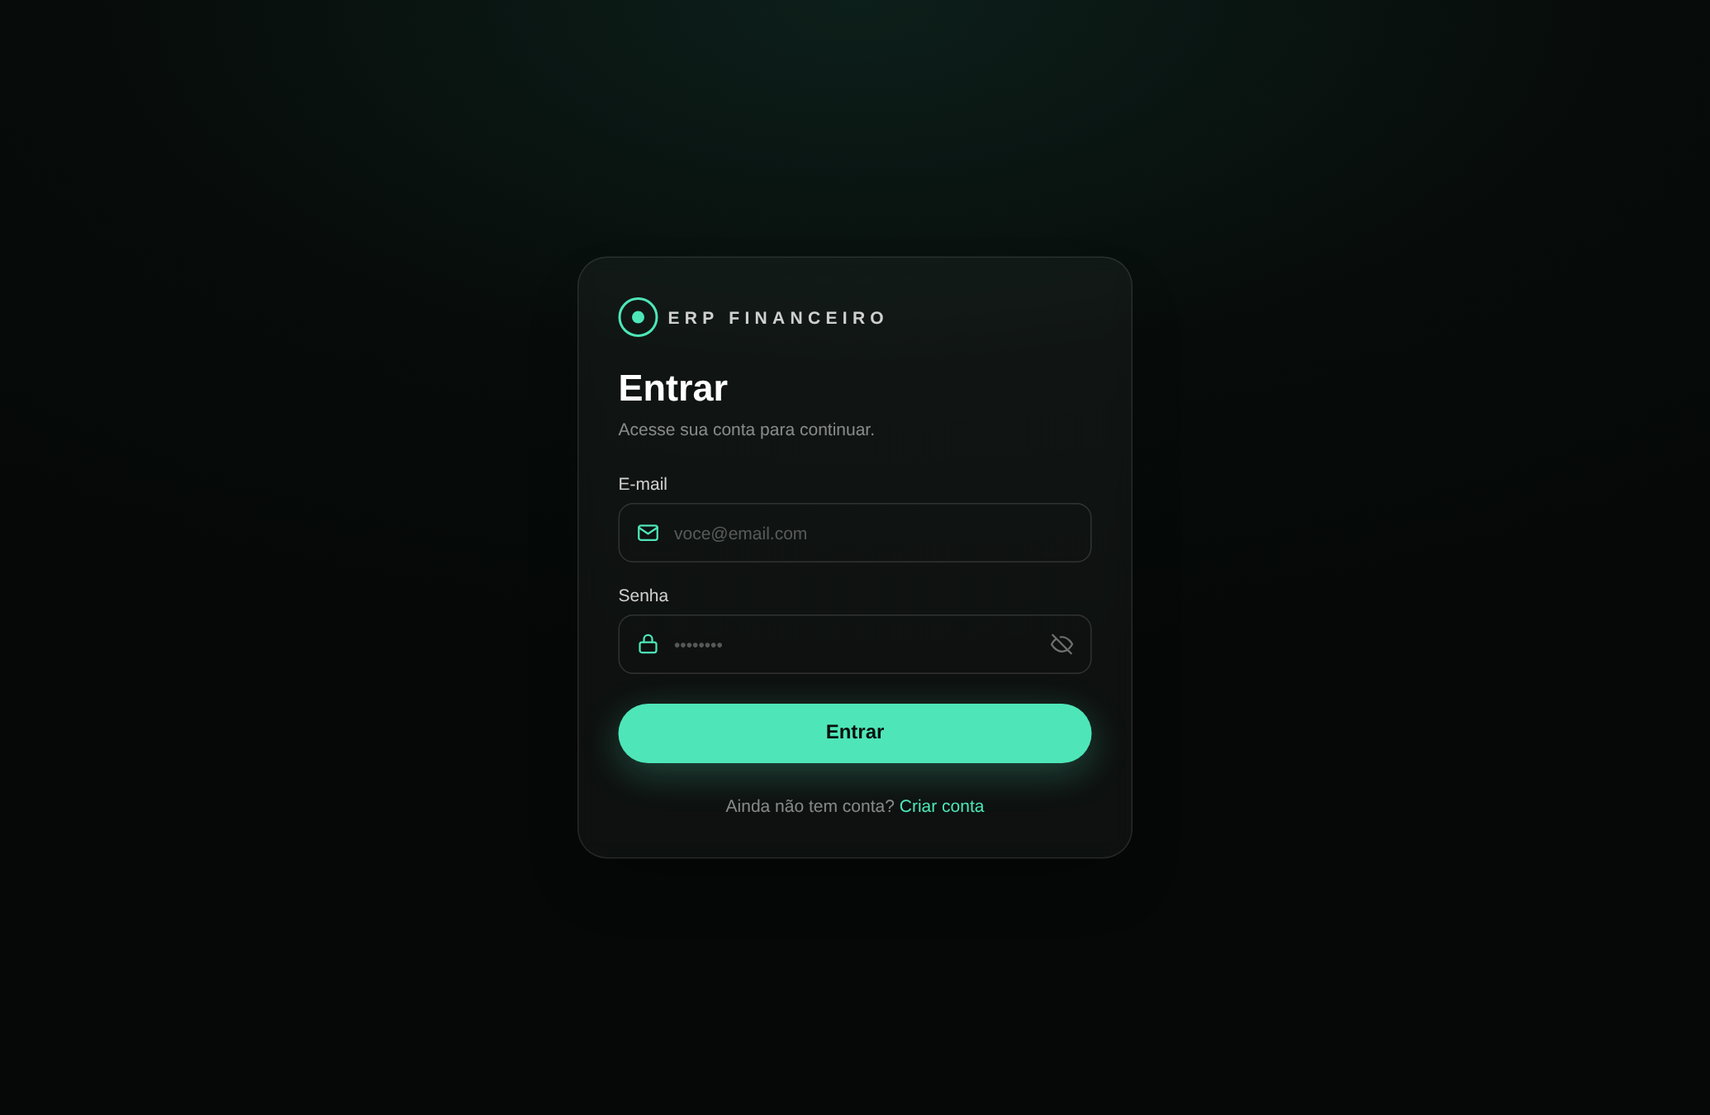
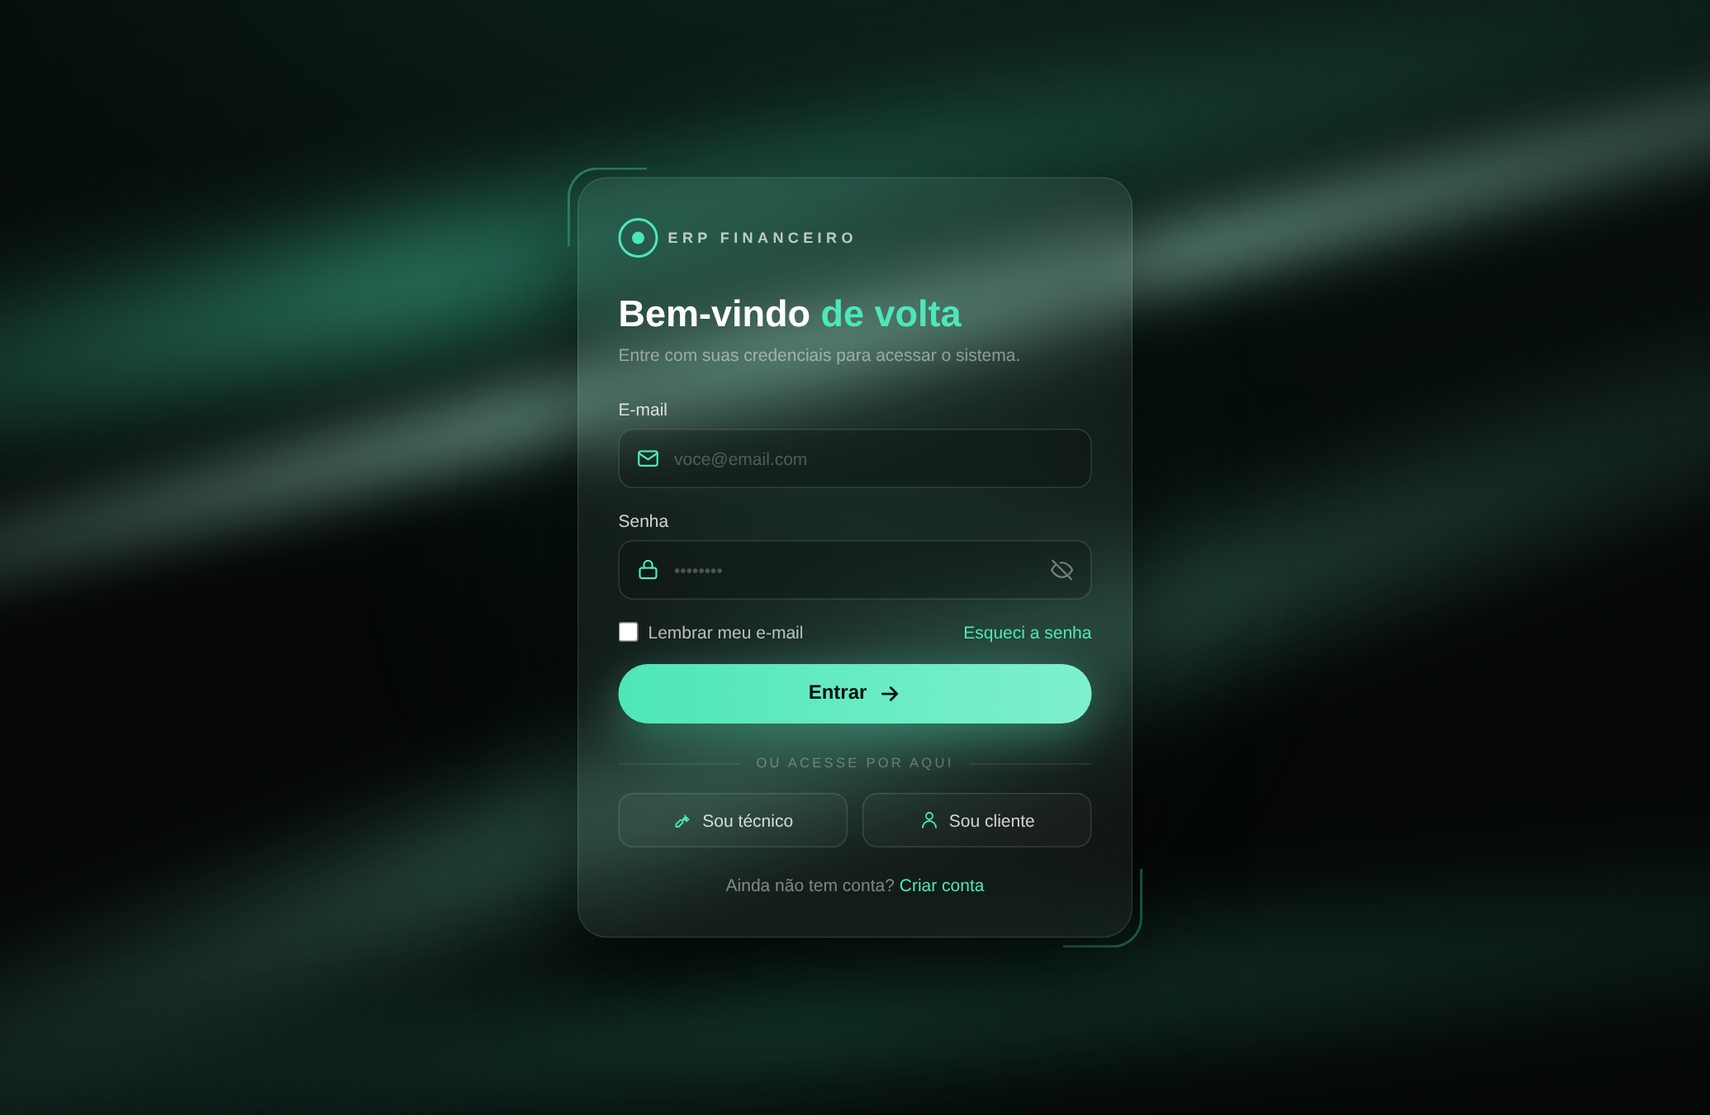
login: visual novo (vidro escuro com faixas de luz) + lembrar e-mail e recuperar senha
Fundo em CSS puro (FundoAuth), sem imagem para baixar: faixas de luz em
diagonal no verde da marca, cartão de vidro com cantos em L, título com
palavra destacada e botão com brilho e seta.

Junto vieram duas coisas que faltavam de verdade no login do administrador:

- "Lembrar meu e-mail": guarda só o e-mail no aparelho, nunca a senha.
- "Esqueci a senha": manda o link de nova senha (o manual já prometia isso,
  mas só o portal tinha). Destino novo /nova-senha, fora do SomenteAnonimo
  porque o link do e-mail chega já com sessão.
- Atalhos "Sou técnico" e "Sou cliente" para as outras duas portas de entrada.

Manual (seção 1) e print regerados.

Claude-Session: https://claude.ai/code/session_01LvKVVJXHUTGGnyzXpwt5fU

diff --git a/app/src/pages/auth/LoginPage.tsx b/app/src/pages/auth/LoginPage.tsx
@@ -4,9 +4,10 @@ import { useAuth } from '../../core/auth/useAuth'
 import { useLimiteTentativas } from '../../core/auth/useLimiteTentativas'
 import { mensagemDeErro } from '../../core/erros/mensagemDeErro'
 import { CHAVE_SESSAO_EXPIRADA } from '../../core/auth/useInatividade'
+import { FundoAuth, MENTA } from './FundoAuth'
 
-const MENTA = '#4ee6b8'
 const emailValido = (v: string) => /^[^@\s]+@[^@\s]+\.[^@\s]+$/.test(v.trim())
+const CHAVE_EMAIL_LEMBRADO = 'erp.login.email'
 
 function Check() {
   return (
@@ -17,16 +18,20 @@ function Check() {
 }
 
 export function LoginPage() {
-  const { entrar } = useAuth()
+  const { entrar, recuperarSenha } = useAuth()
   const navigate = useNavigate()
   const location = useLocation()
   const destino = (location.state as { de?: string } | null)?.de ?? '/'
 
-  const [email, setEmail] = useState('')
+  const lembradoInicial = (() => { try { return localStorage.getItem(CHAVE_EMAIL_LEMBRADO) ?? '' } catch { return '' } })()
+  const [email, setEmail] = useState(lembradoInicial)
+  const [lembrar, setLembrar] = useState(lembradoInicial !== '')
   const [senha, setSenha] = useState('')
   const [verSenha, setVerSenha] = useState(false)
   const [erro, setErro] = useState<string | null>(null)
   const [enviando, setEnviando] = useState(false)
+  const [recuperando, setRecuperando] = useState(false)
+  const [avisoRecuperacao, setAvisoRecuperacao] = useState<string | null>(null)
   const limite = useLimiteTentativas()
   const [sessaoExpirada, setSessaoExpirada] = useState(() => {
     try { return sessionStorage.getItem(CHAVE_SESSAO_EXPIRADA) === '1' } catch { return false }
@@ -43,6 +48,11 @@ export function LoginPage() {
     setEnviando(true)
     try {
       await entrar(email.trim(), senha)
+      // "lembrar" guarda só o e-mail (nunca a senha): tira o trabalho de digitar sem afrouxar a segurança
+      try {
+        if (lembrar) localStorage.setItem(CHAVE_EMAIL_LEMBRADO, email.trim())
+        else localStorage.removeItem(CHAVE_EMAIL_LEMBRADO)
+      } catch { /* ignora */ }
       limite.registrarSucesso()
       navigate(destino, { replace: true })
     } catch (err) {
@@ -53,59 +63,109 @@ export function LoginPage() {
     }
   }
 
-  const campo = 'h-12 w-full rounded-xl border bg-transparent pl-11 pr-11 text-sm text-white outline-none transition placeholder:text-white/30'
+  async function aoRecuperar() {
+    setErro(null)
+    setAvisoRecuperacao(null)
+    if (!emailValido(email)) { setErro('Informe o e-mail da conta para receber o link de nova senha.'); return }
+    setRecuperando(true)
+    try {
+      await recuperarSenha(email.trim(), `${window.location.origin}/nova-senha`)
+      setAvisoRecuperacao('Se o e-mail existir, o link para definir uma nova senha chega em instantes.')
+    } catch (err) {
+      setErro(mensagemDeErro(err))
+    } finally {
+      setRecuperando(false)
+    }
+  }
+
+  const campo = 'h-12 w-full rounded-xl border bg-black/20 pl-11 pr-11 text-sm text-white outline-none transition placeholder:text-white/25'
   const borda = (ok: boolean) => (ok ? { borderColor: MENTA, boxShadow: `0 0 0 1px ${MENTA}33` } : { borderColor: 'rgba(255,255,255,0.14)' })
 
   return (
-    <div className="flex min-h-screen items-center justify-center px-4 py-10" style={{ background: 'radial-gradient(80% 60% at 50% 0%, #0d1f1a 0%, #070c0a 55%, #050807 100%)' }}>
-      <div className="w-full max-w-md rounded-3xl border border-white/10 bg-white/[0.04] p-8 shadow-2xl backdrop-blur">
-        <div className="mb-6 flex items-center gap-2">
-          <span className="flex size-8 items-center justify-center rounded-full border-2" style={{ borderColor: MENTA }}>
-            <span className="size-2.5 rounded-full" style={{ backgroundColor: MENTA }} />
-          </span>
-          <span className="text-sm font-semibold tracking-[0.3em] text-white/80">ERP FINANCEIRO</span>
-        </div>
+    <FundoAuth>
+      <div className="relative w-full max-w-md">
+        {/* cantos em L: o "recorte" do cartão, que dá a moldura sem pesar o fundo */}
+        <span className="pointer-events-none absolute -left-2 -top-2 size-16 rounded-tl-3xl border-l-2 border-t-2" style={{ borderColor: `${MENTA}66` }} />
+        <span className="pointer-events-none absolute -bottom-2 -right-2 size-16 rounded-br-3xl border-b-2 border-r-2" style={{ borderColor: `${MENTA}66` }} />
 
-        <h1 className="text-3xl font-bold text-white">Entrar</h1>
-        <p className="mt-1 text-sm text-white/50">Acesse sua conta para continuar.</p>
-
-        <form onSubmit={aoEnviar} className="mt-6 space-y-4" noValidate>
-          {erro && <p className="rounded-xl border border-red-400/30 bg-red-400/10 px-4 py-3 text-sm text-red-300">{erro}</p>}
-          {limite.mensagem && <p className="rounded-xl border border-white/10 bg-white/5 px-4 py-3 text-sm text-white/70">{limite.mensagem}</p>}
-
-          <div>
-            <label htmlFor="login-email" className="mb-1.5 block text-sm font-medium text-white/80">E-mail</label>
-            <div className="relative">
-              <svg viewBox="0 0 24 24" className="absolute left-3.5 top-1/2 size-5 -translate-y-1/2" fill="none" stroke={MENTA} strokeWidth="1.8" strokeLinecap="round" strokeLinejoin="round"><rect x="3" y="5" width="18" height="14" rx="2" /><path d="m3 7 9 6 9-6" /></svg>
-              <input id="login-email" type="email" autoComplete="email" required value={email} onChange={(e) => setEmail(e.target.value)} className={campo} style={borda(emailValido(email))} placeholder="voce@email.com" />
-              {emailValido(email) && <span className="absolute right-3.5 top-1/2 -translate-y-1/2"><Check /></span>}
-            </div>
+        <div className="rounded-3xl border border-white/10 bg-white/[0.05] p-8 shadow-[0_30px_80px_rgba(0,0,0,0.55)] backdrop-blur-xl">
+          <div className="mb-7 flex items-center gap-2">
+            <span className="flex size-8 items-center justify-center rounded-full border-2" style={{ borderColor: MENTA }}>
+              <span className="size-2.5 rounded-full" style={{ backgroundColor: MENTA }} />
+            </span>
+            <span className="text-xs font-semibold tracking-[0.3em] text-white/70">ERP FINANCEIRO</span>
           </div>
 
-          <div>
-            <label htmlFor="login-senha" className="mb-1.5 block text-sm font-medium text-white/80">Senha</label>
-            <div className="relative">
-              <svg viewBox="0 0 24 24" className="absolute left-3.5 top-1/2 size-5 -translate-y-1/2" fill="none" stroke={MENTA} strokeWidth="1.8" strokeLinecap="round" strokeLinejoin="round"><rect x="4" y="10" width="16" height="10" rx="2" /><path d="M8 10V7a4 4 0 0 1 8 0v3" /></svg>
-              <input id="login-senha" type={verSenha ? 'text' : 'password'} autoComplete="current-password" required value={senha} onChange={(e) => setSenha(e.target.value)} className={campo} style={borda(senha.length >= 6)} placeholder="••••••••" />
-              <button type="button" aria-label={verSenha ? 'Ocultar senha' : 'Mostrar senha'} onClick={() => setVerSenha((v) => !v)} className="absolute right-3.5 top-1/2 -translate-y-1/2 text-white/40 hover:text-white/80">
-                <svg viewBox="0 0 24 24" className="size-5" fill="none" stroke="currentColor" strokeWidth="1.8" strokeLinecap="round" strokeLinejoin="round">{verSenha ? <path d="M2 12s3.5-7 10-7 10 7 10 7-3.5 7-10 7-10-7-10-7Zm10 3a3 3 0 1 0 0-6 3 3 0 0 0 0 6Z" /> : <path d="m3 3 18 18M10.6 5.1A10.9 10.9 0 0 1 12 5c6.5 0 10 7 10 7a17.6 17.6 0 0 1-3.2 4.2M6.6 6.6C3.9 8.5 2 12 2 12s3.5 7 10 7c1.6 0 3-.4 4.3-1"/>}</svg>
+          <h1 className="text-3xl font-bold text-white">Bem-vindo <span style={{ color: MENTA }}>de volta</span></h1>
+          <p className="mt-1 text-sm text-white/45">Entre com suas credenciais para acessar o sistema.</p>
+
+          <form onSubmit={aoEnviar} className="mt-6 space-y-4" noValidate>
+            {erro && <p className="rounded-xl border border-red-400/30 bg-red-400/10 px-4 py-3 text-sm text-red-300">{erro}</p>}
+            {avisoRecuperacao && <p className="rounded-xl border border-white/10 bg-white/5 px-4 py-3 text-sm text-white/70">{avisoRecuperacao}</p>}
+            {limite.mensagem && <p className="rounded-xl border border-white/10 bg-white/5 px-4 py-3 text-sm text-white/70">{limite.mensagem}</p>}
+
+            <div>
+              <label htmlFor="login-email" className="mb-1.5 block text-sm font-medium text-white/80">E-mail</label>
+              <div className="relative">
+                <svg viewBox="0 0 24 24" className="absolute left-3.5 top-1/2 size-5 -translate-y-1/2" fill="none" stroke={MENTA} strokeWidth="1.8" strokeLinecap="round" strokeLinejoin="round"><rect x="3" y="5" width="18" height="14" rx="2" /><path d="m3 7 9 6 9-6" /></svg>
+                <input id="login-email" type="email" autoComplete="email" required value={email} onChange={(e) => setEmail(e.target.value)} className={campo} style={borda(emailValido(email))} placeholder="voce@email.com" />
+                {emailValido(email) && <span className="absolute right-3.5 top-1/2 -translate-y-1/2"><Check /></span>}
+              </div>
+            </div>
+
+            <div>
+              <label htmlFor="login-senha" className="mb-1.5 block text-sm font-medium text-white/80">Senha</label>
+              <div className="relative">
+                <svg viewBox="0 0 24 24" className="absolute left-3.5 top-1/2 size-5 -translate-y-1/2" fill="none" stroke={MENTA} strokeWidth="1.8" strokeLinecap="round" strokeLinejoin="round"><rect x="4" y="10" width="16" height="10" rx="2" /><path d="M8 10V7a4 4 0 0 1 8 0v3" /></svg>
+                <input id="login-senha" type={verSenha ? 'text' : 'password'} autoComplete="current-password" required value={senha} onChange={(e) => setSenha(e.target.value)} className={campo} style={borda(senha.length >= 6)} placeholder="••••••••" />
+                <button type="button" aria-label={verSenha ? 'Ocultar senha' : 'Mostrar senha'} onClick={() => setVerSenha((v) => !v)} className="absolute right-3.5 top-1/2 -translate-y-1/2 text-white/40 hover:text-white/80">
+                  <svg viewBox="0 0 24 24" className="size-5" fill="none" stroke="currentColor" strokeWidth="1.8" strokeLinecap="round" strokeLinejoin="round">{verSenha ? <path d="M2 12s3.5-7 10-7 10 7 10 7-3.5 7-10 7-10-7-10-7Zm10 3a3 3 0 1 0 0-6 3 3 0 0 0 0 6Z" /> : <path d="m3 3 18 18M10.6 5.1A10.9 10.9 0 0 1 12 5c6.5 0 10 7 10 7a17.6 17.6 0 0 1-3.2 4.2M6.6 6.6C3.9 8.5 2 12 2 12s3.5 7 10 7c1.6 0 3-.4 4.3-1"/>}</svg>
+                </button>
+              </div>
+            </div>
+
+            <div className="flex flex-wrap items-center justify-between gap-2 text-sm">
+              <label className="flex cursor-pointer items-center gap-2 text-white/70">
+                <input type="checkbox" checked={lembrar} onChange={(e) => setLembrar(e.target.checked)} className="size-4 rounded" style={{ accentColor: MENTA }} />
+                Lembrar meu e-mail
+              </label>
+              <button type="button" onClick={() => void aoRecuperar()} disabled={recuperando} className="font-medium hover:underline disabled:opacity-50" style={{ color: MENTA }}>
+                {recuperando ? 'Enviando…' : 'Esqueci a senha'}
               </button>
             </div>
-          </div>
 
-          <button
-            type="submit"
-            disabled={enviando || limite.bloqueado}
-            className="mt-2 h-12 w-full rounded-full text-base font-semibold transition hover:brightness-110 disabled:opacity-50"
-            style={{ backgroundColor: MENTA, color: '#08110d', boxShadow: `0 8px 30px ${MENTA}44` }}
-          >
-            {enviando ? 'Entrando…' : 'Entrar'}
-          </button>
+            <button
+              type="submit"
+              disabled={enviando || limite.bloqueado}
+              className="group mt-2 flex h-12 w-full items-center justify-center gap-2 rounded-full text-base font-semibold transition hover:brightness-110 disabled:opacity-50"
+              style={{ background: `linear-gradient(90deg, ${MENTA}, #7ef0cd)`, color: '#08110d', boxShadow: `0 10px 34px ${MENTA}55` }}
+            >
+              {enviando ? 'Entrando…' : 'Entrar'}
+              {!enviando && <svg viewBox="0 0 24 24" className="size-5 transition group-hover:translate-x-1" fill="none" stroke="currentColor" strokeWidth="2.2" strokeLinecap="round" strokeLinejoin="round"><path d="M5 12h14m-6-6 6 6-6 6" /></svg>}
+            </button>
 
-          <p className="pt-2 text-center text-sm text-white/50">
-            Ainda não tem conta? <Link to="/cadastro" className="font-medium hover:underline" style={{ color: MENTA }}>Criar conta</Link>
-          </p>
-        </form>
+            <div className="flex items-center gap-3 pt-2">
+              <span className="h-px flex-1 bg-white/10" />
+              <span className="text-[11px] uppercase tracking-[0.2em] text-white/30">ou acesse por aqui</span>
+              <span className="h-px flex-1 bg-white/10" />
+            </div>
+
+            <div className="grid grid-cols-2 gap-3">
+              <Link to="/tecnico/entrar" className="flex h-11 items-center justify-center gap-2 rounded-xl border border-white/12 bg-white/[0.03] text-sm text-white/80 transition hover:border-white/25 hover:bg-white/[0.07]">
+                <svg viewBox="0 0 24 24" className="size-4" fill="none" stroke={MENTA} strokeWidth="1.8" strokeLinecap="round" strokeLinejoin="round"><path d="M14.7 6.3a4 4 0 0 1-5.4 5.4L4 17v3h3l5.3-5.3a4 4 0 0 1 5.4-5.4l-2.5 2.5 1.5 1.5 2.5-2.5" /></svg>
+                Sou técnico
+              </Link>
+              <Link to="/portal/entrar" className="flex h-11 items-center justify-center gap-2 rounded-xl border border-white/12 bg-white/[0.03] text-sm text-white/80 transition hover:border-white/25 hover:bg-white/[0.07]">
+                <svg viewBox="0 0 24 24" className="size-4" fill="none" stroke={MENTA} strokeWidth="1.8" strokeLinecap="round" strokeLinejoin="round"><path d="M20 21a8 8 0 0 0-16 0" /><circle cx="12" cy="7" r="4" /></svg>
+                Sou cliente
+              </Link>
+            </div>
+
+            <p className="pt-1 text-center text-sm text-white/45">
+              Ainda não tem conta? <Link to="/cadastro" className="font-medium hover:underline" style={{ color: MENTA }}>Criar conta</Link>
+            </p>
+          </form>
+        </div>
       </div>
 
       {sessaoExpirada && (
@@ -119,6 +179,6 @@ export function LoginPage() {
           </div>
         </div>
       )}
-    </div>
+    </FundoAuth>
   )
 }

diff --git a/app/src/pages/auth/NovaSenhaPage.tsx b/app/src/pages/auth/NovaSenhaPage.tsx
@@ -1,0 +1,57 @@
+import { useState, type FormEvent } from 'react'
+import { Link, useNavigate } from 'react-router'
+import { useAuth } from '../../core/auth/useAuth'
+import { validarSenha } from '../../core/auth/validarSenha'
+import { mensagemDeErro } from '../../core/erros/mensagemDeErro'
+import { FundoAuth, MENTA } from './FundoAuth'
+
+/** Destino do link de "Esqueci a senha" do administrador (o e-mail abre esta tela já autenticado). */
+export function NovaSenhaPage() {
+  const { definirSenha, sessao, carregando } = useAuth()
+  const navigate = useNavigate()
+  const [senha, setSenha] = useState('')
+  const [erro, setErro] = useState<string | null>(null)
+  const [enviando, setEnviando] = useState(false)
+
+  async function aoEnviar(e: FormEvent) {
+    e.preventDefault()
+    const problemas = validarSenha(senha)
+    if (problemas.length) { setErro(problemas.join(' ')); return }
+    setErro(null)
+    setEnviando(true)
+    try { await definirSenha(senha); navigate('/', { replace: true }) } catch (err) { setErro(mensagemDeErro(err)) } finally { setEnviando(false) }
+  }
+
+  return (
+    <FundoAuth>
+      <div className="w-full max-w-md rounded-3xl border border-white/10 bg-white/[0.05] p-8 shadow-[0_30px_80px_rgba(0,0,0,0.55)] backdrop-blur-xl">
+        <h1 className="text-3xl font-bold text-white">Nova <span style={{ color: MENTA }}>senha</span></h1>
+        {carregando ? (
+          <p className="mt-4 text-sm text-white/45">Carregando…</p>
+        ) : !sessao ? (
+          <>
+            <p className="mt-1 text-sm text-white/45">Este link não vale mais. Abra o link do e-mail neste mesmo navegador ou peça outro.</p>
+            <Link to="/entrar" className="mt-6 flex h-12 items-center justify-center rounded-full text-base font-semibold" style={{ background: `linear-gradient(90deg, ${MENTA}, #7ef0cd)`, color: '#08110d' }}>Voltar ao login</Link>
+          </>
+        ) : (
+          <>
+            <p className="mt-1 text-sm text-white/45">Escolha a senha que você vai usar a partir de agora.</p>
+            <form onSubmit={aoEnviar} className="mt-6 space-y-4" noValidate>
+              {erro && <p className="rounded-xl border border-red-400/30 bg-red-400/10 px-4 py-3 text-sm text-red-300">{erro}</p>}
+              <div>
+                <label htmlFor="nova-senha" className="mb-1.5 block text-sm font-medium text-white/80">Nova senha</label>
+                <input id="nova-senha" type="password" autoComplete="new-password" required value={senha} onChange={(e) => setSenha(e.target.value)}
+                  className="h-12 w-full rounded-xl border border-white/15 bg-black/20 px-4 text-sm text-white outline-none transition placeholder:text-white/25 focus:border-white/40" placeholder="••••••••" />
+              </div>
+              <button type="submit" disabled={enviando}
+                className="mt-2 h-12 w-full rounded-full text-base font-semibold transition hover:brightness-110 disabled:opacity-50"
+                style={{ background: `linear-gradient(90deg, ${MENTA}, #7ef0cd)`, color: '#08110d', boxShadow: `0 10px 34px ${MENTA}55` }}>
+                {enviando ? 'Salvando…' : 'Salvar senha'}
+              </button>
+            </form>
+          </>
+        )}
+      </div>
+    </FundoAuth>
+  )
+}

diff --git a/app/src/pages/auth/FundoAuth.tsx b/app/src/pages/auth/FundoAuth.tsx
@@ -1,0 +1,23 @@
+import type { ReactNode } from 'react'
+
+/** Verde-menta da marca — o mesmo dos botões e do logotipo. */
+export const MENTA = '#4ee6b8'
+
+/**
+ * Fundo das telas de acesso: base escura com faixas de luz em diagonal (as "fitas").
+ * Tudo é CSS — nenhuma imagem para baixar, então o login abre instantâneo até no 4G.
+ */
+export function FundoAuth({ children }: { children: ReactNode }) {
+  return (
+    <div className="relative flex min-h-screen items-center justify-center overflow-hidden px-4 py-10" style={{ background: 'radial-gradient(90% 70% at 50% -10%, #0e241e 0%, #07100d 55%, #040706 100%)' }}>
+      <div aria-hidden className="pointer-events-none absolute inset-0 overflow-hidden">
+        <span className="absolute -left-1/4 top-[10%] h-24 w-[160%] -rotate-12 rounded-full blur-2xl" style={{ background: `linear-gradient(90deg, transparent, ${MENTA}80 30%, ${MENTA}2a 60%, transparent)` }} />
+        <span className="absolute -left-1/4 top-[26%] h-10 w-[160%] -rotate-[14deg] rounded-full blur-xl" style={{ background: `linear-gradient(90deg, transparent, #b6ffe6cc 45%, transparent)` }} />
+        <span className="absolute -left-1/4 top-[58%] h-20 w-[160%] -rotate-[20deg] rounded-full blur-2xl" style={{ background: `linear-gradient(90deg, transparent, #7ef0cd66 40%, transparent)` }} />
+        <span className="absolute -left-1/4 bottom-[6%] h-16 w-[160%] -rotate-6 rounded-full blur-2xl" style={{ background: `linear-gradient(90deg, transparent, ${MENTA}4d 45%, transparent)` }} />
+        <span className="absolute left-1/2 top-1/2 size-[46rem] -translate-x-1/2 -translate-y-1/2 rounded-full blur-3xl" style={{ background: `radial-gradient(circle, ${MENTA}1f, transparent 65%)` }} />
+      </div>
+      {children}
+    </div>
+  )
+}

diff --git a/app/src/app/router.tsx b/app/src/app/router.tsx
@@ -3,6 +3,7 @@ import { RequireAuth, SomenteAnonimo } from '../core/auth/RequireAuth'
 import { AppShell } from '../core/layout/AppShell'
 import { LoginPage } from '../pages/auth/LoginPage'
 import { CadastroPage } from '../pages/auth/CadastroPage'
+import { NovaSenhaPage } from '../pages/auth/NovaSenhaPage'
 import { MODULOS } from './modulos'
 import { PortalShell } from '../portal/PortalShell'
 import { PortalCadastroPage, PortalLoginEmailPage, PortalLoginPage, PortalNovaSenhaPage, PortalRecuperarPage, PortalVincularPage } from '../portal/pages/PortalAuthPages'
@@ -43,6 +44,8 @@ export const router = createBrowserRouter([
   },
   // Área do técnico (login próprio, sem acesso ao ERP)
   { path: '/tecnico/entrar', element: <TecnicoLoginPage /> },
+  // link do "Esqueci a senha" do administrador: o e-mail abre esta tela já com sessão
+  { path: '/nova-senha', element: <NovaSenhaPage /> },
   {
     path: '/tecnico',
     element: <TecnicoShell />,

diff --git a/docs/manual/README.md b/docs/manual/README.md
@@ -18,8 +18,10 @@ Guia completo para um novo administrador operar o sistema, tela a tela. As image
 ![Login](img/01-login.png)
 
 1. Abra o endereço do sistema e informe **e-mail e senha** do administrador.
-2. Esqueceu a senha? Use "Recuperar senha" — chega um link no e-mail.
-3. Por segurança, a sessão expira após 30 minutos sem uso.
+2. **Lembrar meu e-mail** guarda só o e-mail neste aparelho (a senha nunca é salva) — no próximo acesso você só digita a senha.
+3. Esqueceu a senha? Digite o e-mail e clique em **Esqueci a senha**: chega um link para definir a senha nova. Abra o link **no mesmo navegador**.
+4. **Sou técnico** e **Sou cliente** levam às outras duas portas de entrada sem precisar decorar endereço.
+5. Por segurança, a sessão expira após 30 minutos sem uso.
 
 ## 2. Dashboard (visão geral)
 
